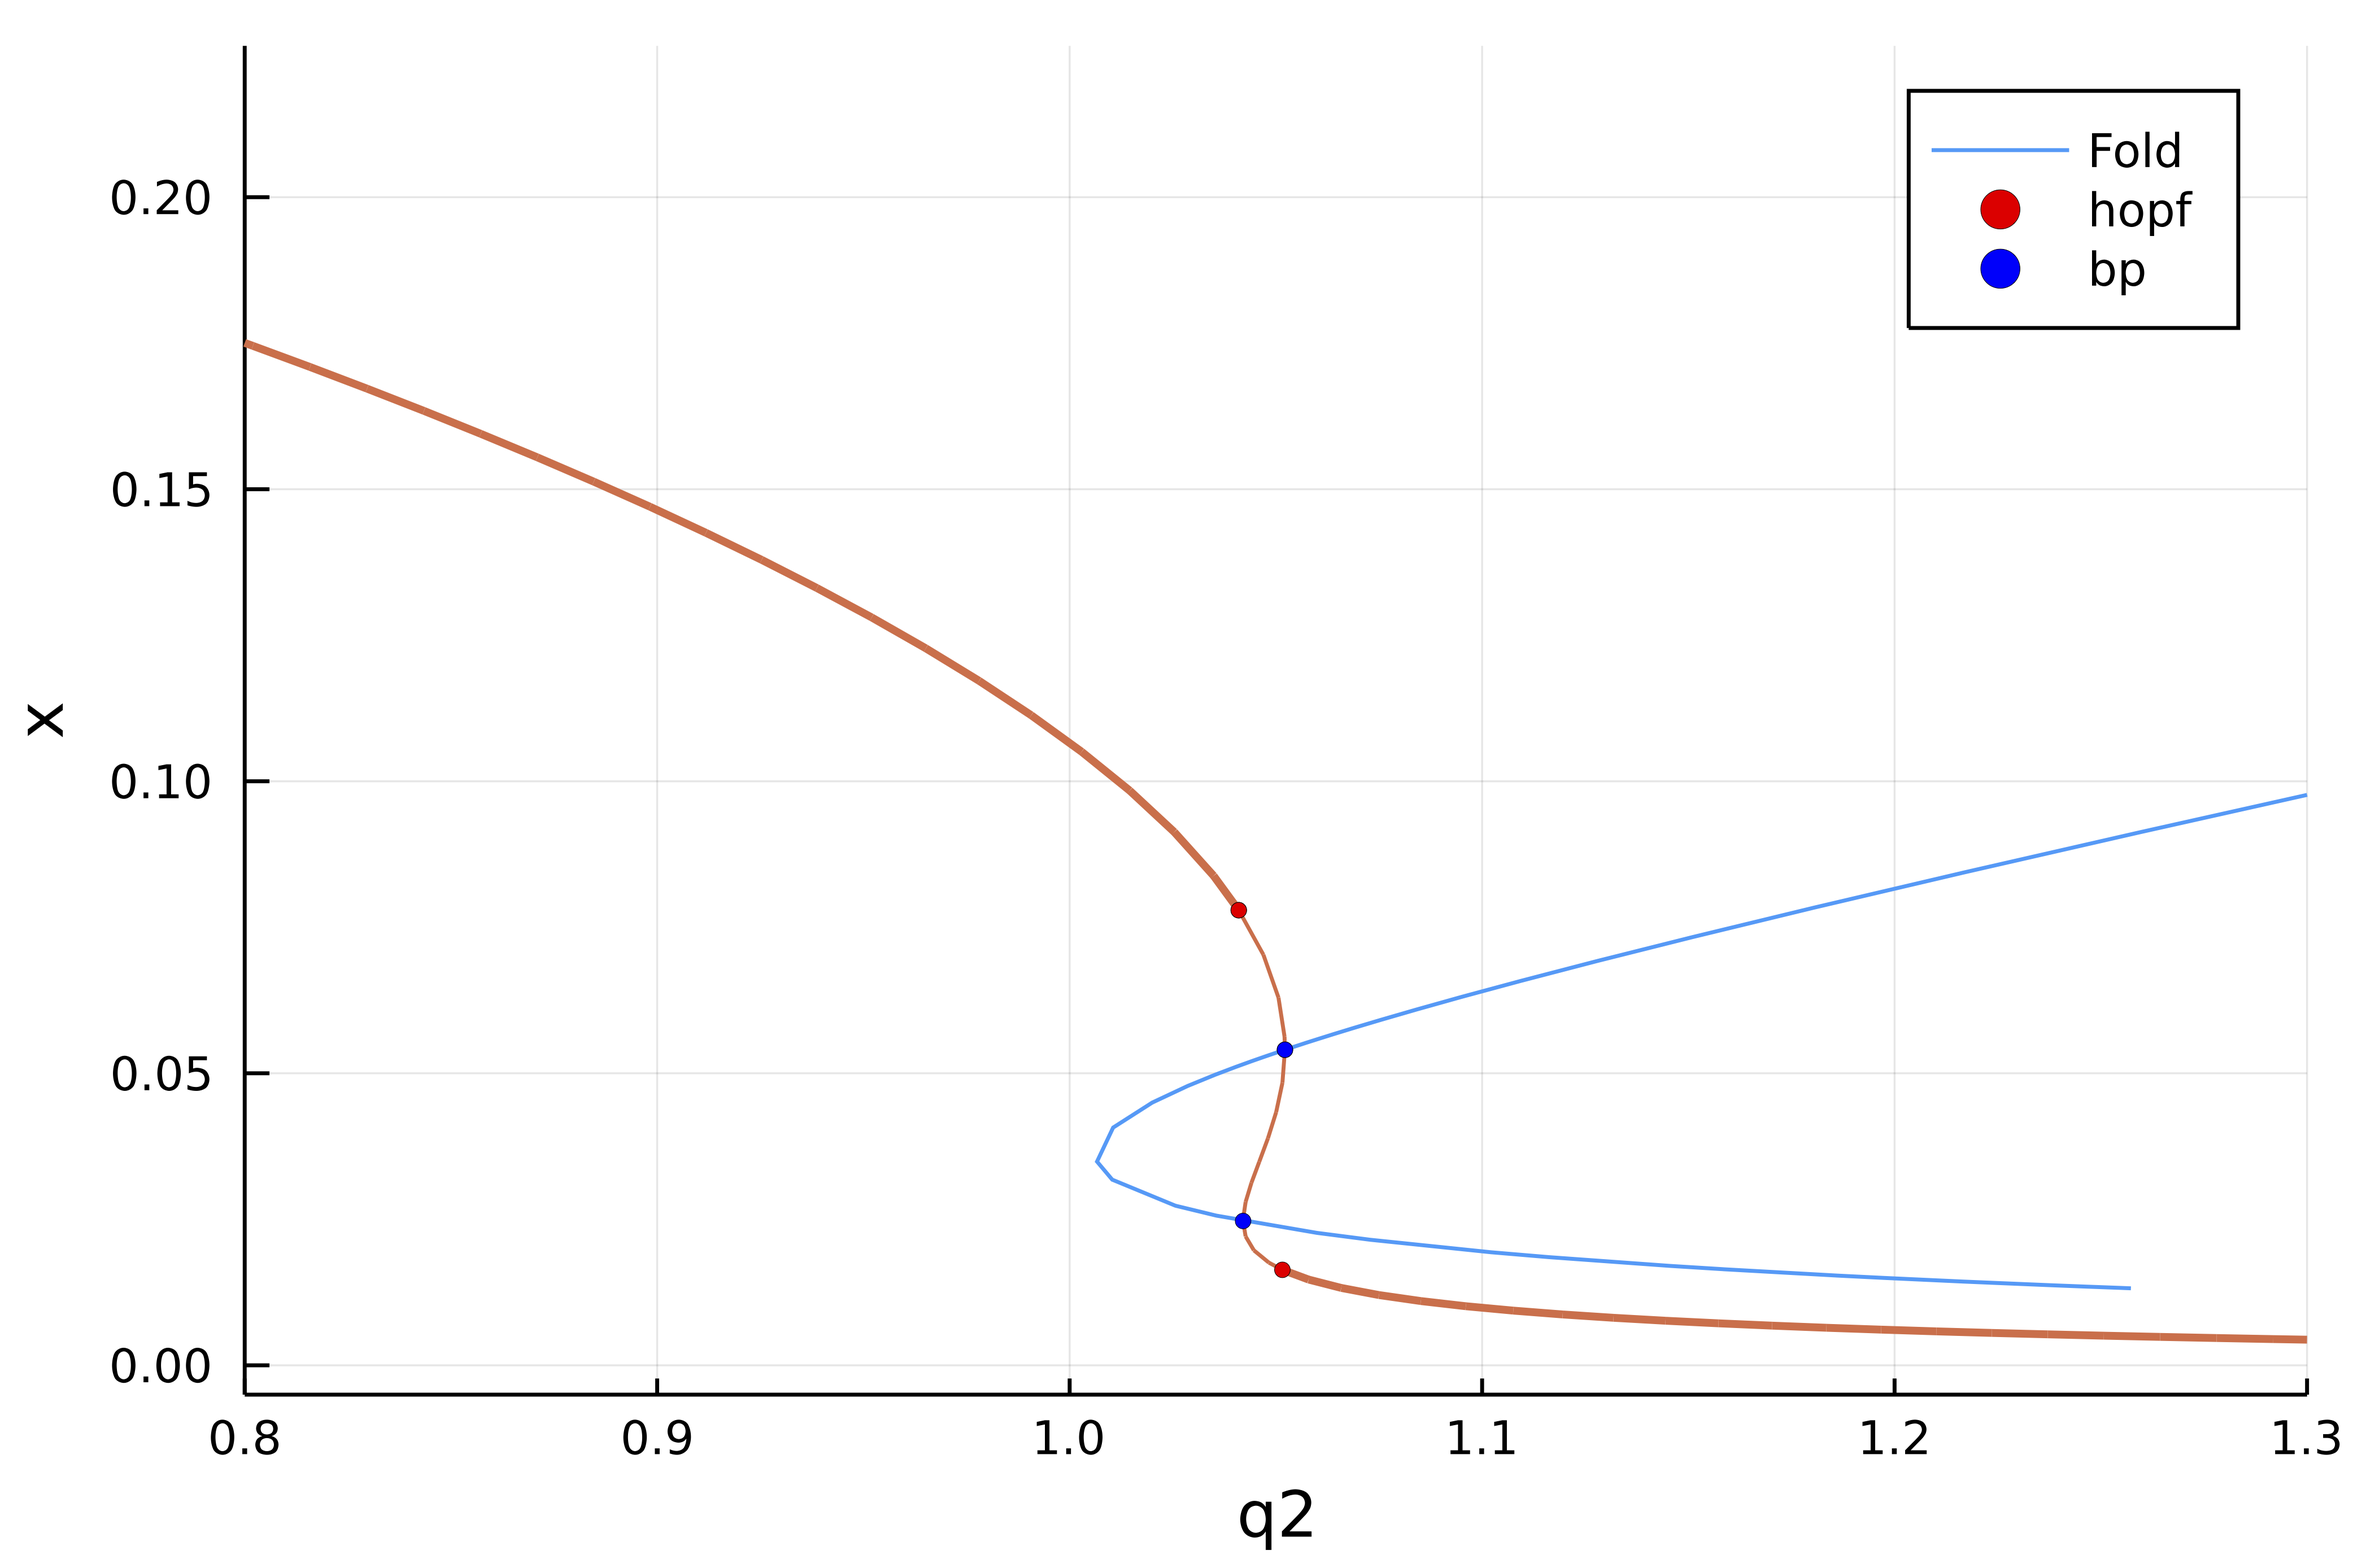
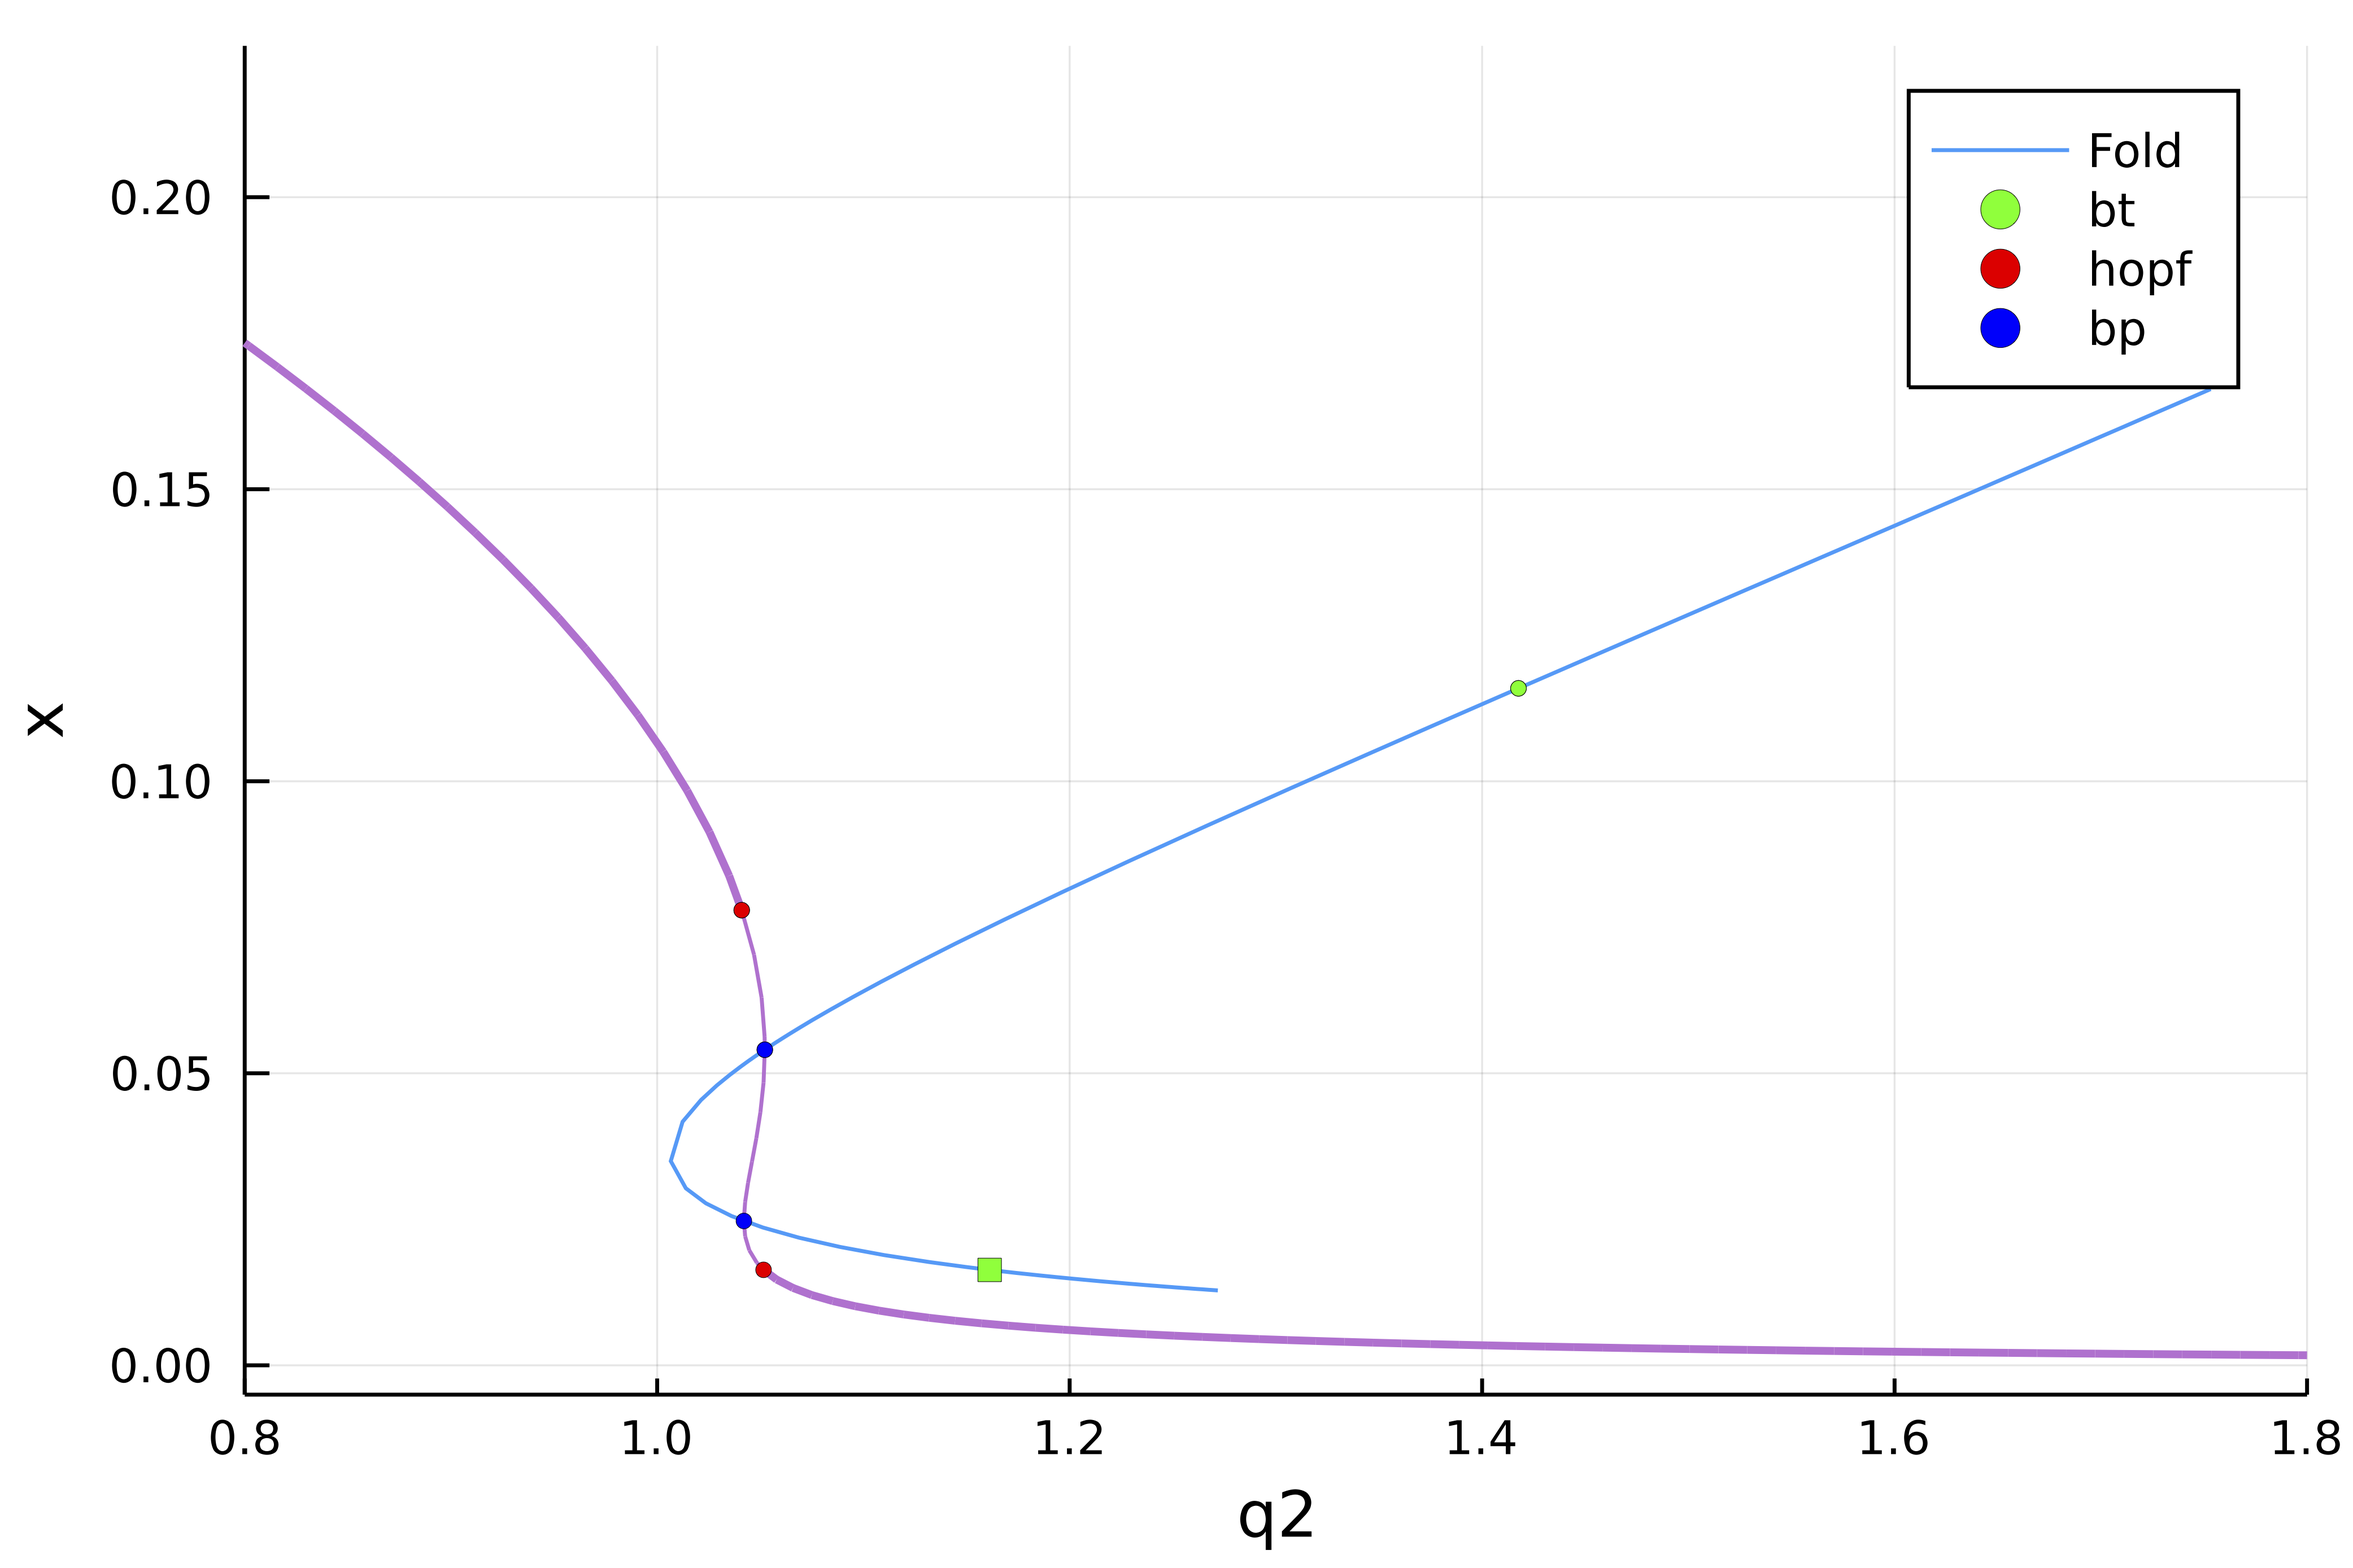
stop Hopf continuation if frequency is null

diff --git a/docs/src/tutorialCO.md b/docs/src/tutorialCO.md
@@ -61,9 +61,12 @@ pts_br = ContinuationPar(pMin = 0.6, pMax = 1.9, ds = 0.002, dsmax = 0.01, nInve
 br, = @time continuation(jet[1], jet[2], z0, par_com, (@lens _.q2), opts_br;
 	printSolution = (x, p) -> (x = x[1], y = x[2]),
 	plot = true, verbosity = 3, normC = norminf)
+	
+plot(sn_codim2, vars=(:q2, :x), branchlabel = "Fold", plotstability = false)
+plot!(br,xlims=(0.8,1.8))
 ```
 
-And you should get from `plot(br)`:
+And you should get:
 
 ![](com-fig1.png)
 
@@ -81,7 +84,8 @@ sn_codim2, = continuation(jet[1:2]..., br, 2, (@lens _.k),
 	bothside=true,
 	bdlinsolver = MatrixBLS())
 	
-plot(sn_codim2.q2, sn_codim2.x, label = "Fold");plot!(br,xlims=(0.5,1.3))
+plot(sn_codim2, vars=(:q2, :x), branchlabel = "Fold", plotstability = false)
+plot!(br,xlims=(0.8,1.8))
 ```
 
 ![](com-fig2.png)
@@ -103,9 +107,9 @@ hp_codim2, = continuation(jet[1:2]..., br, 1, (@lens _.k),
 	)
 	
 # plotting
-plot(br)
-plot!(sn_codim2.q2, sn_codim2.x, label = "SN",)
-plot!(hp_codim2.q2, hp_codim2.x, label = "Hopf", plotfold = false, xlims=(0.5,1.5))
+plot(sn_codim2, vars=(:q2, :x), branchlabel = "Fold", plotstability = false)
+plot!(hp_codim2, vars=(:q2, :x), branchlabel = "Hopf")
+plot!(br, xlims=(0.6,1.5))
 ```	
 
 ![](com-fig3.png)
